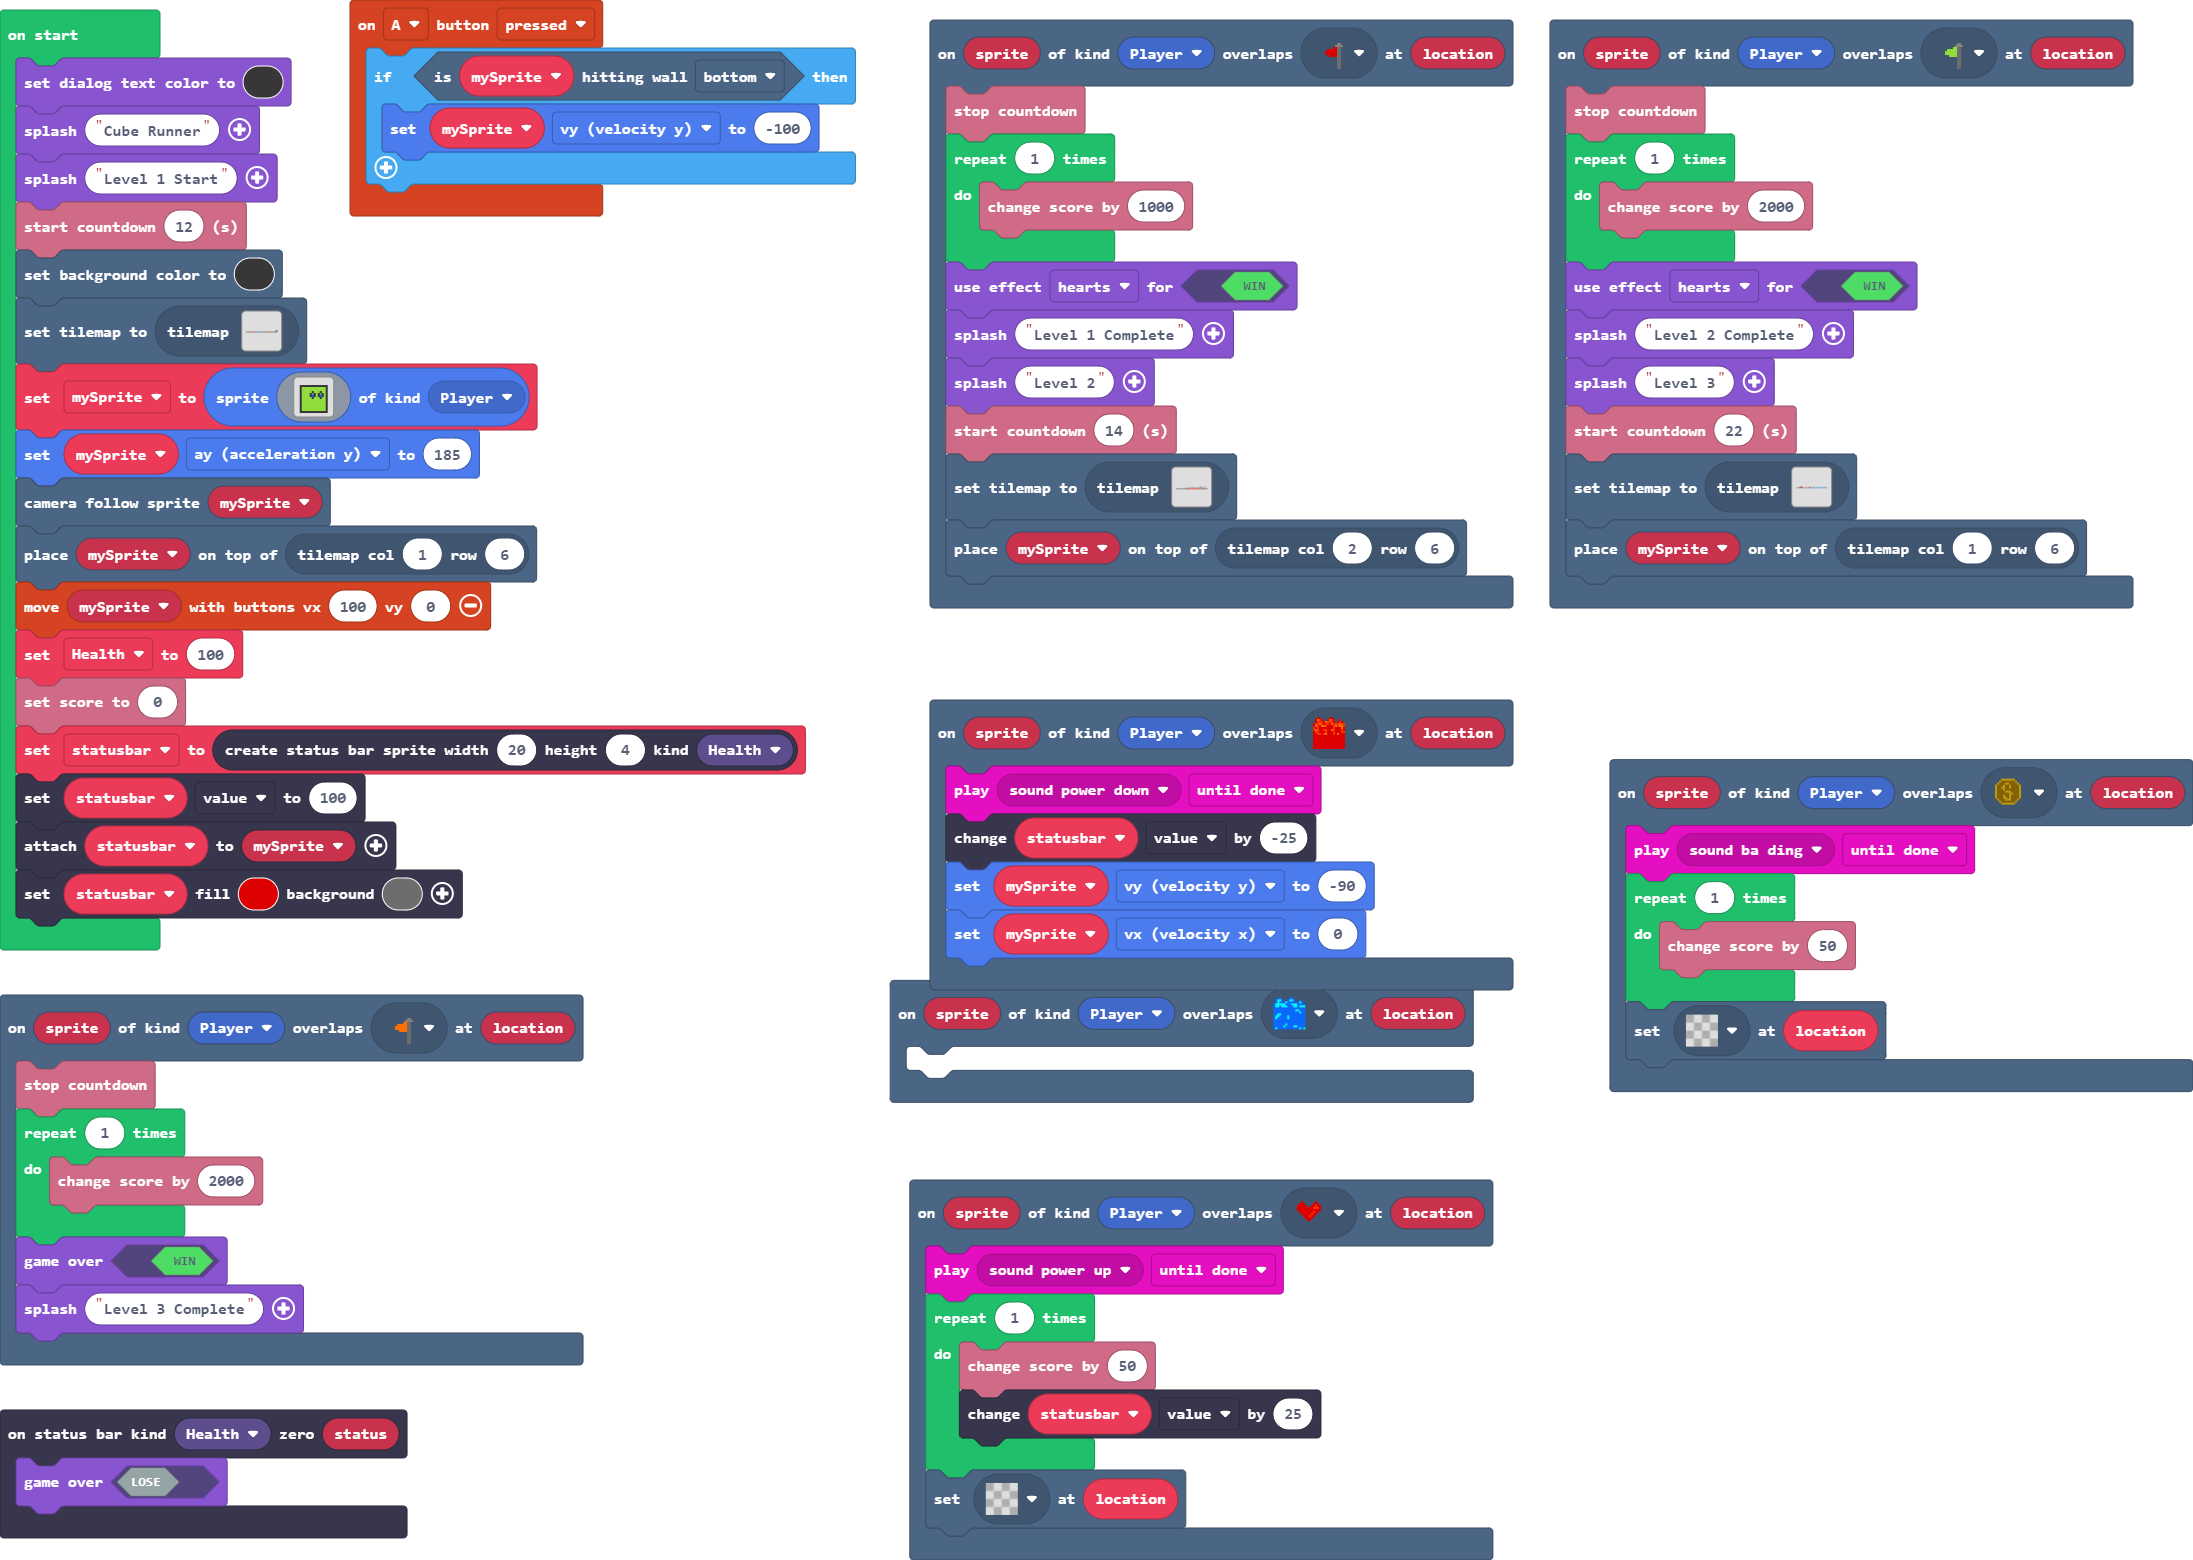
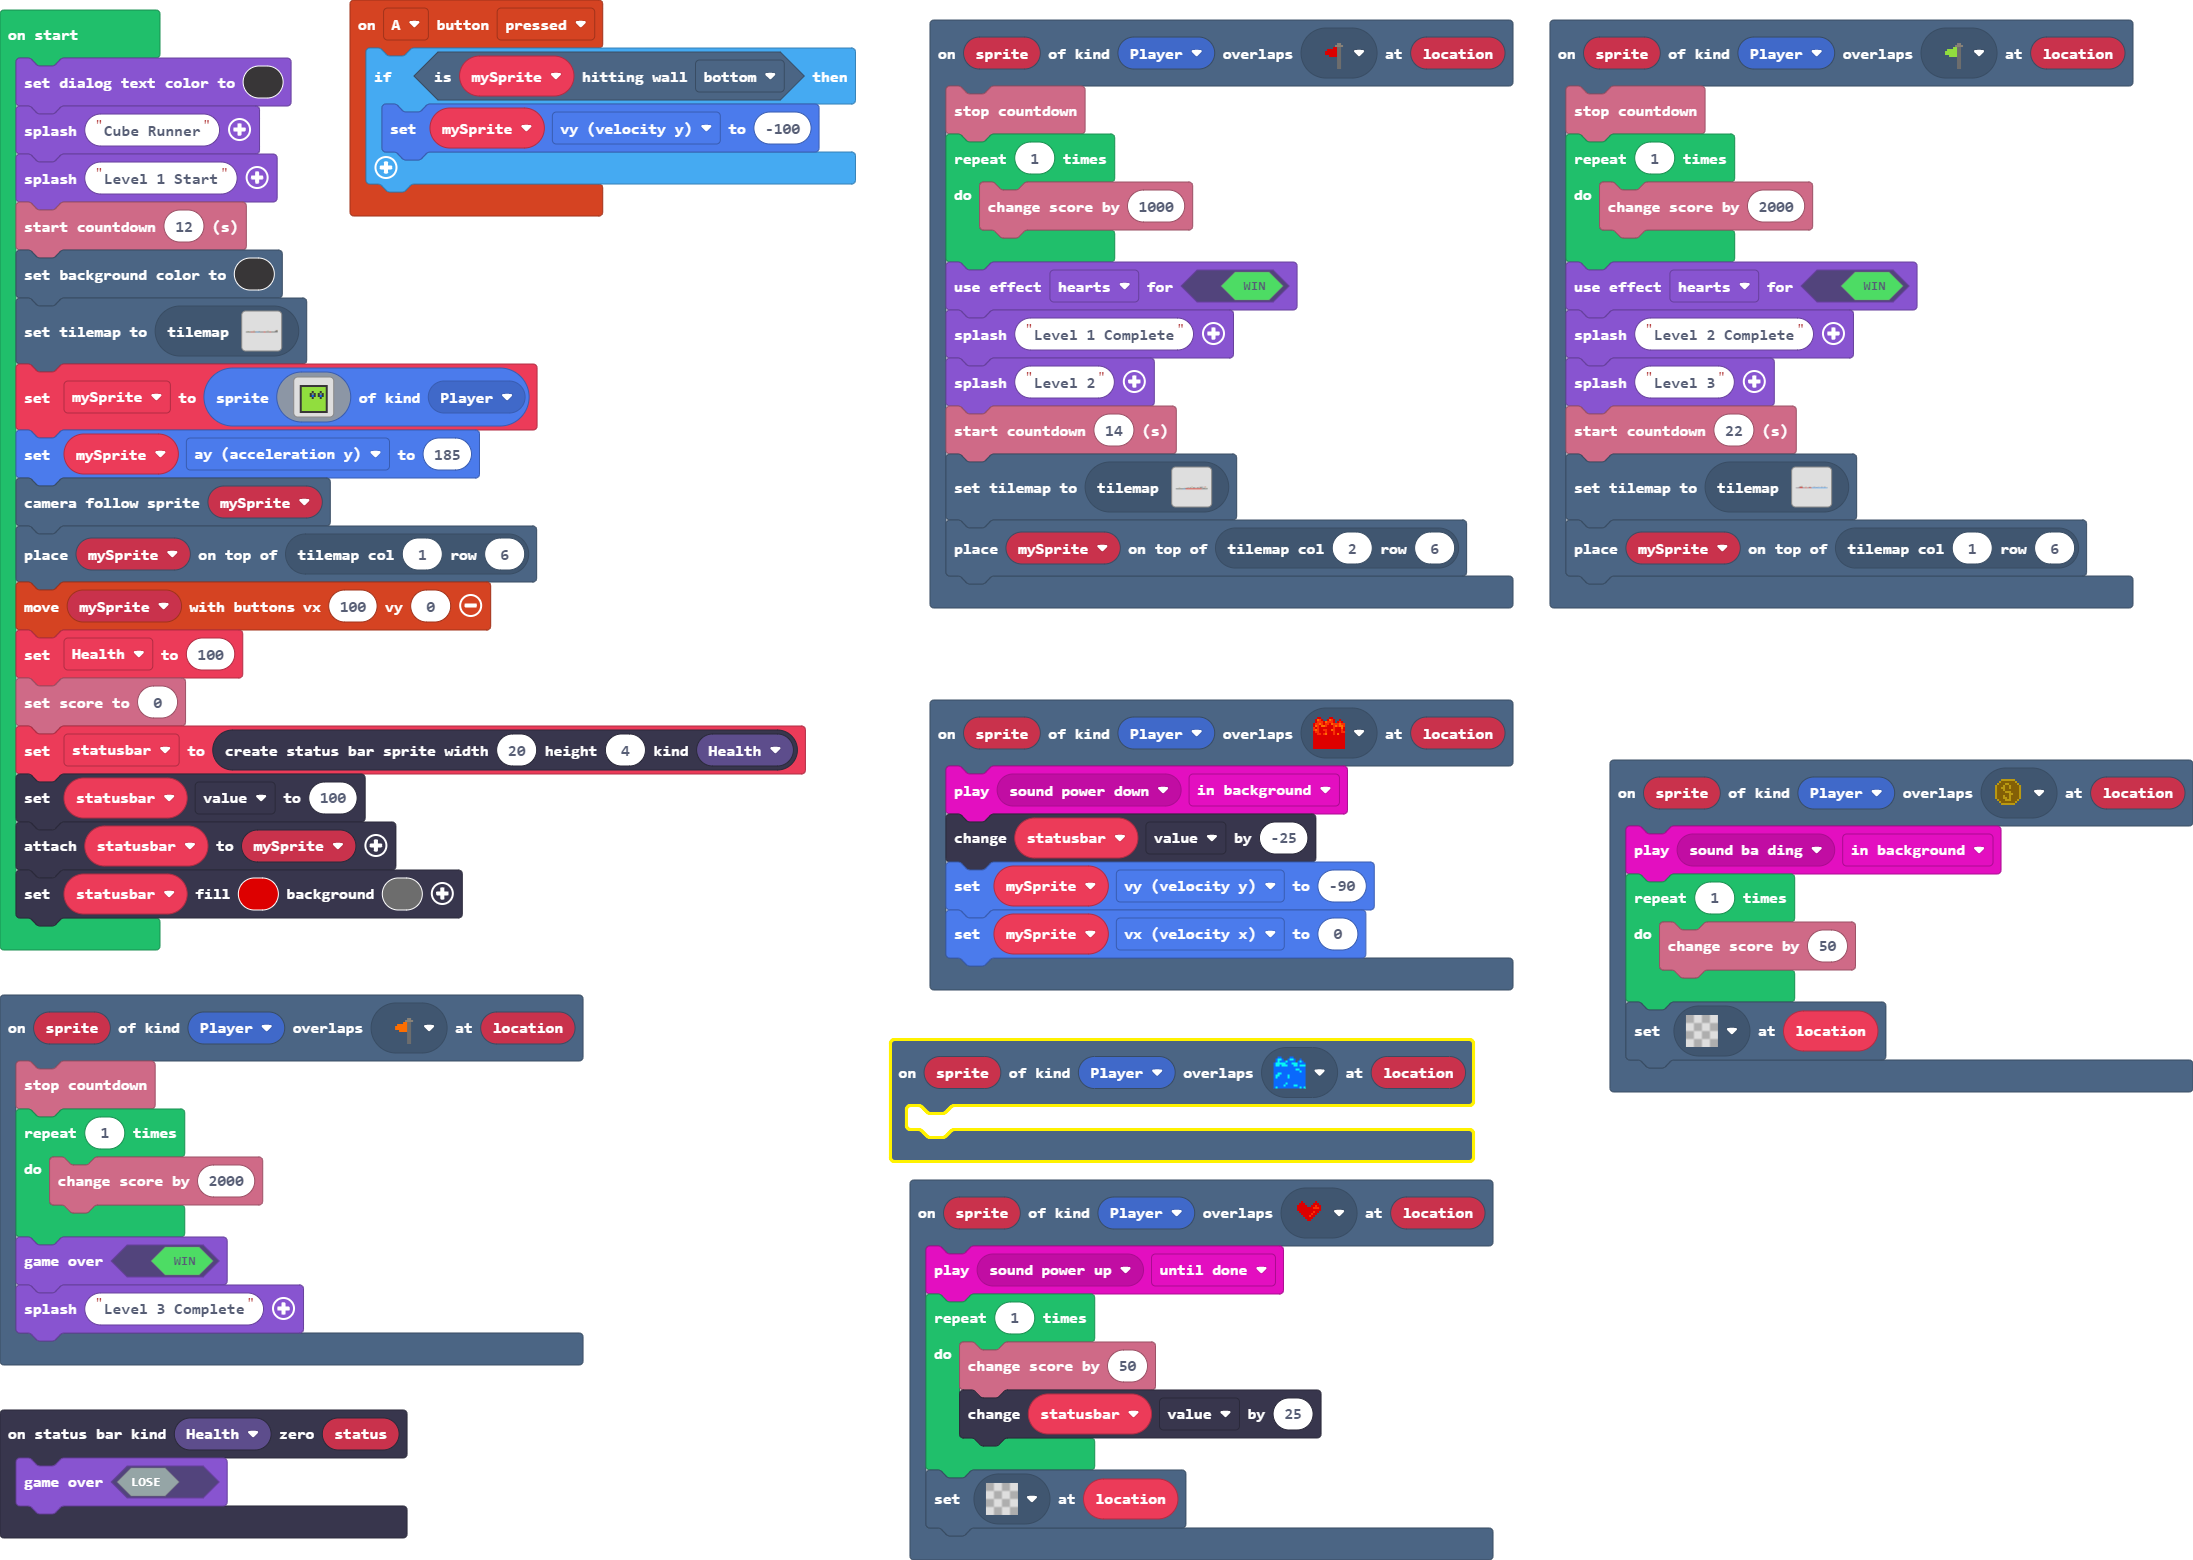
Update main.blocks, main.ts

Changed region(s): [[0.4031, 0.6154, 0.6822, 0.7692], [0.8372, 0.5231, 0.9302, 0.5538], [0.5581, 0.4923, 0.6202, 0.5231]]

diff --git a/main.ts b/main.ts
@@ -17,14 +17,14 @@ scene.onOverlapTile(SpriteKind.Player, assets.tile`Level2 Flag`, function (sprit
     tiles.placeOnTile(mySprite, tiles.getTileLocation(1, 6))
 })
 scene.onOverlapTile(SpriteKind.Player, assets.tile`Coin`, function (sprite, location) {
-    music.play(music.melodyPlayable(music.baDing), music.PlaybackMode.UntilDone)
+    music.play(music.melodyPlayable(music.baDing), music.PlaybackMode.InBackground)
     for (let index = 0; index < 1; index++) {
         info.changeScoreBy(50)
     }
     tiles.setTileAt(location, assets.tile`transparency16`)
 })
 scene.onOverlapTile(SpriteKind.Player, assets.tile`myTile`, function (sprite, location) {
-    music.play(music.melodyPlayable(music.powerDown), music.PlaybackMode.UntilDone)
+    music.play(music.melodyPlayable(music.powerDown), music.PlaybackMode.InBackground)
     statusbar.value += -25
     mySprite.vy = -90
     mySprite.vx = 0
